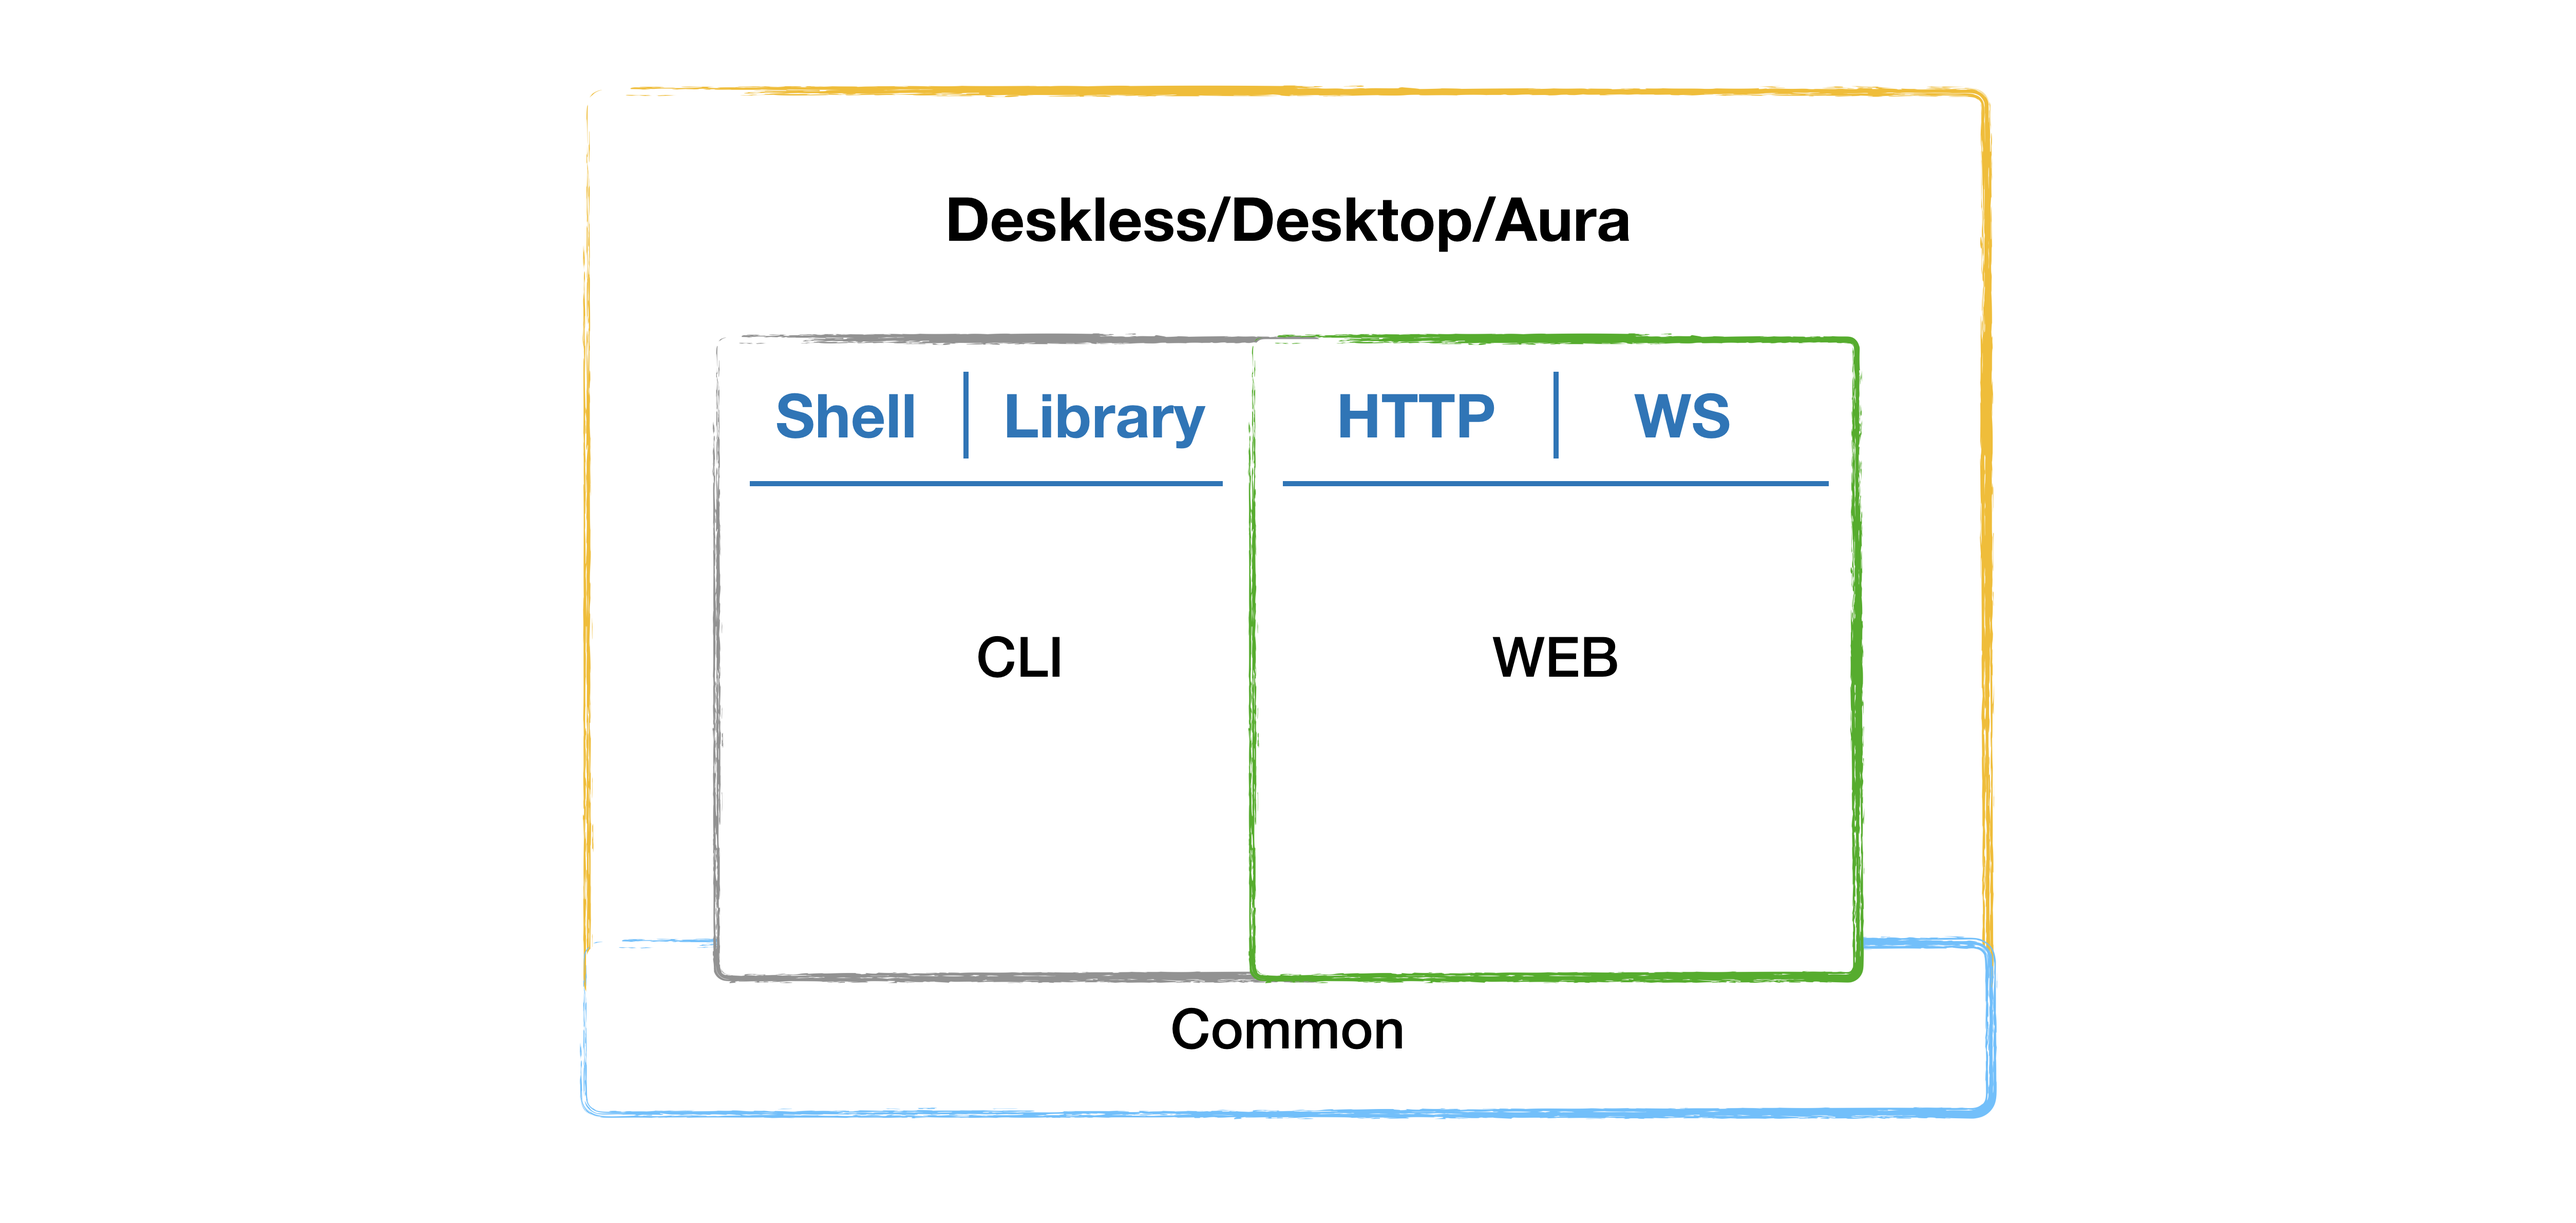
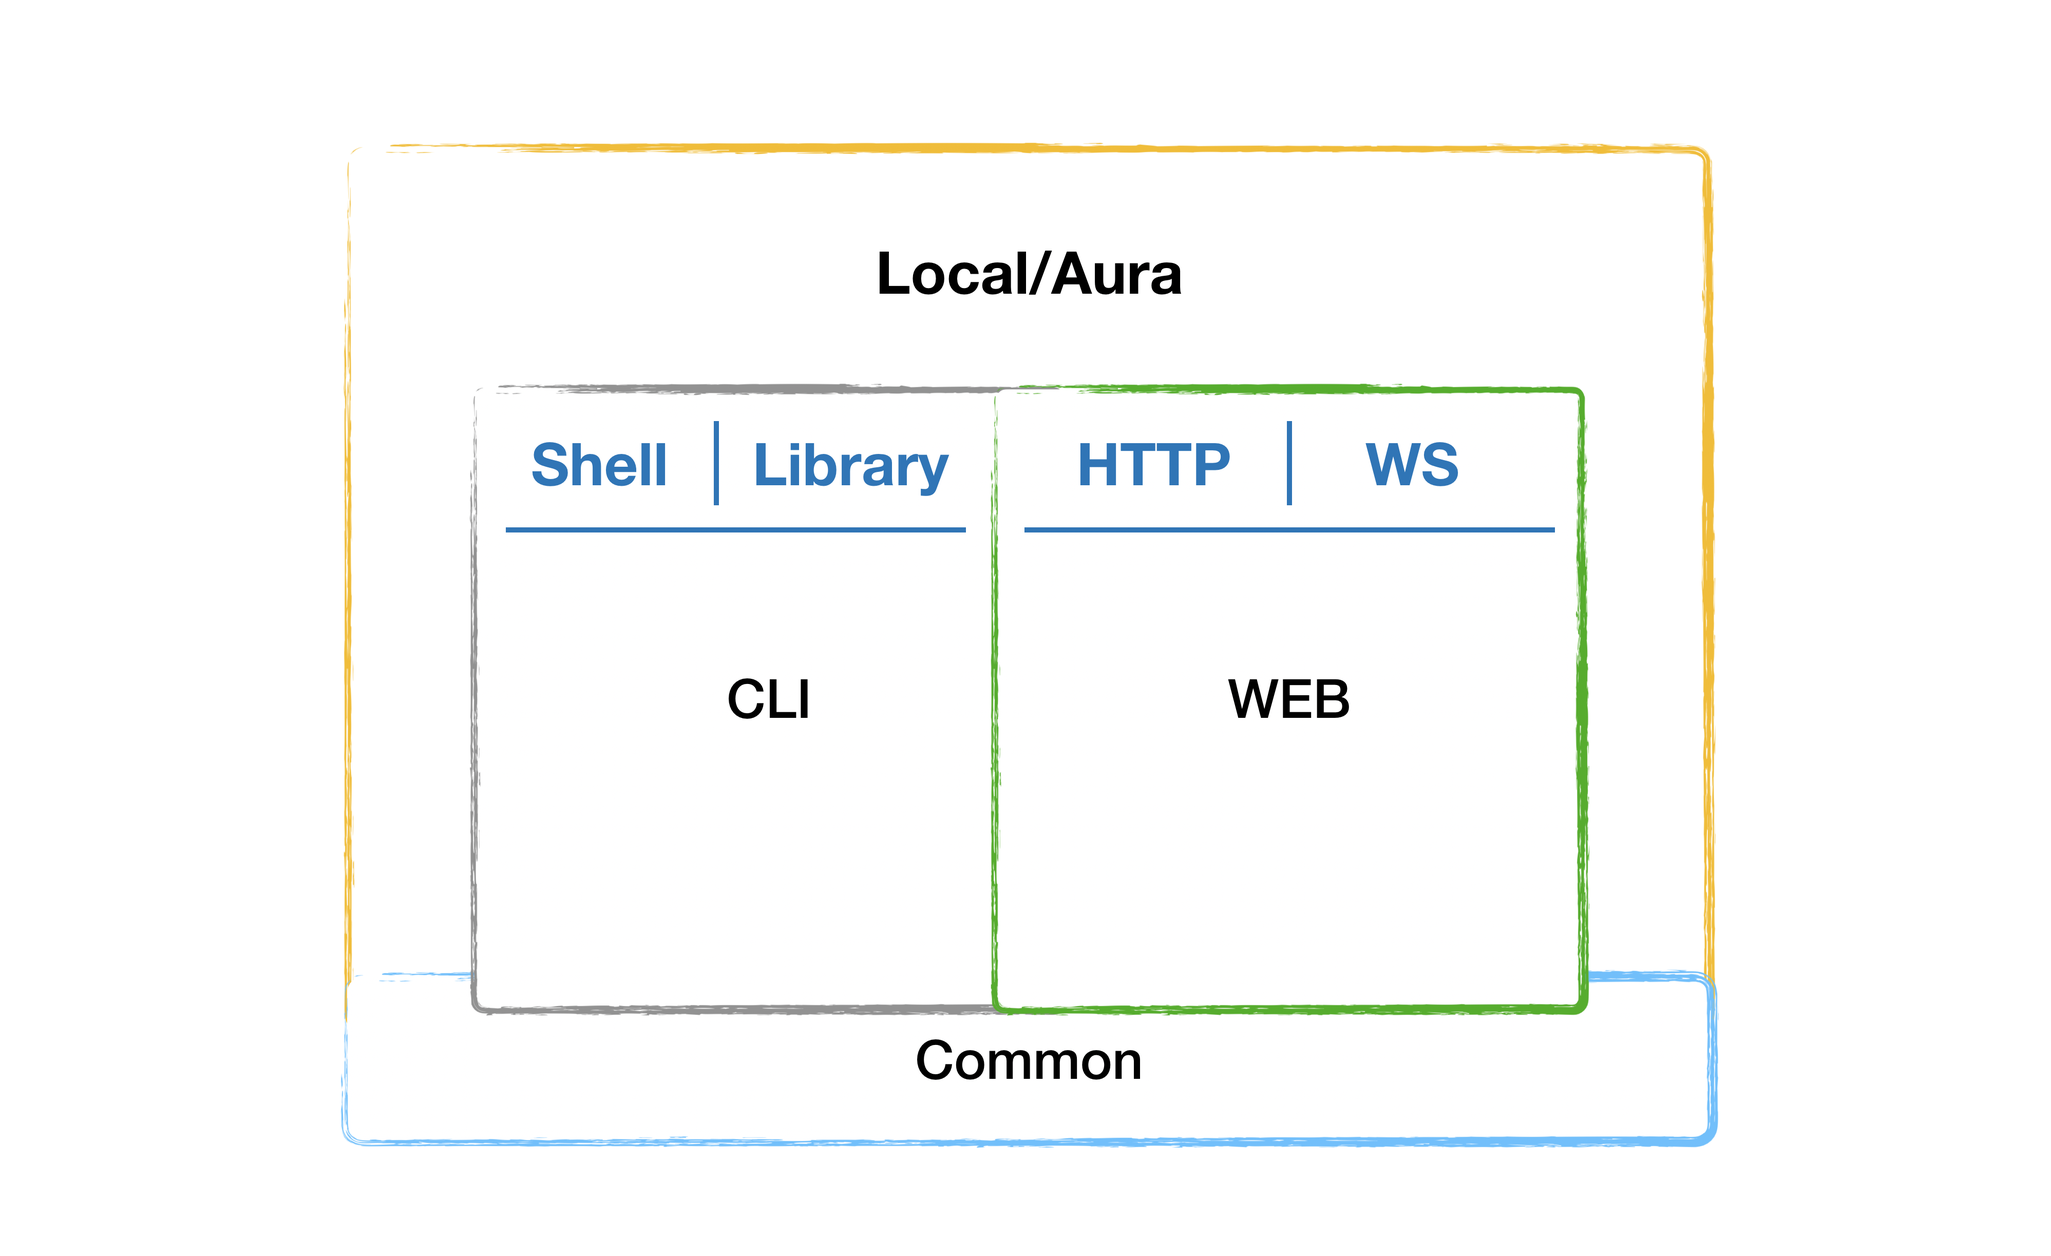
Agent -> Account

diff --git a/documentation/RFCs/relate-api/relate-api.rfc.md b/documentation/RFCs/relate-api/relate-api.rfc.md
@@ -19,7 +19,7 @@ For now we will use the project name `@daedalus` until we have found a real name
 ## GraphQL
 ```GraphQL
 query GetDBNames {
-    useAgent(nameOrId: "local") {
+    useAccount(nameOrId: "local") {
         useDBMS(nameOrId: "neo4j") {
             id,
             dbs {
@@ -32,7 +32,7 @@ query GetDBNames {
 
 ## CLI
 ```sh
-$ daedalus agent:use "local" # set context to "local"
+$ daedalus account:use "local" # set context to "local"
 $ daedalus dbms:use "neo4j" # set current DBMS to "neo4j"
 $ daedalus db:list | awk '{print $2}' # list db names (eg. col 2)
 ```
@@ -41,13 +41,13 @@ $ daedalus db:list | awk '{print $2}' # list db names (eg. col 2)
 ```TypeScript
 import Daedalus, {Database} from '@daedalus/core';
 
-const dbs: Promise<Database[]> = Daedalus.useAgent('local')
-    .then((agent) => agent.useDBMS('neo4j'))
+const dbs: Promise<Database[]> = Daedalus.useAccount('local')
+    .then((account) => account.useDBMS('neo4j'))
     .then((dbms) => dbms.listDBs())
 ```
 
 # Motivation
-As we are adding more and more ways for consumers (web developers, application developers, system developers) to interact with our core product (local, on-prem, cloud), 
+As we are adding more and more ways for consumers (web developers, application developers, system developers) to interact with our core product (local, on-premise, cloud), 
 as well as increasing the feature set of our products (clustering, multi-db, transactions), 
 we need to ensure that they have access to a homogeneous, extensible, and intuitive API that empowers them to do great work.
 
@@ -59,26 +59,26 @@ In addition, we will leverage the power of established frameworks and patterns i
 
 # Detailed design
 The core deliverable is a JavaScript library (the "toolkit") that allows you to programmatically interact with the Neo4j platform.
-In this context, "platform" is defined as the collection of Agents (Deskless, Desktop, Aura), Services (IDMS, User data, Graph Apps), and Tools (drivers, graphql server, plugins).
+In this context, "platform" is defined as the collection of Accounts (Local, Aura), Services (IDMS, User data, Graph Apps), and Tools (drivers, graphql server, plugins).
 The basis of the toolkit is a collection of modules, providers, microservices, et al. that can readily be composed into an application using a Dependency Injection framework.
 This enables us to ship modular, extensible, and scalable code that is easy for consumers to discover and adopt.
 
 ## A note on nomenclature
-- `Agent` here refers to a top level trusted authority containing certificates, keys, credentials, et. al. A container of all things, and the root of our chain of trust:
-    - `DBMS` here refers to a Neo4j DBMS instance, whose access is managed by it's `Agent`
+- `Account` here refers to a top level trusted authority containing certificates, keys, credentials, et. al. A container of all things, and the root of our chain of trust:
+    - `DBMS` here refers to a Neo4j DBMS instance, whose access is managed by it's `Account`
         - `DB` here refers to a Neo4j Database instance, whose access is managed by it's `DBMS`
             - `Graph` here refers to Neo4j Graph instance, whose access is managed by it's `DB`
 - `Services` here refers to local and remote resources that we choose to officially integrate with
 - `Tools` here refers to other known programmatic/CLI/HTTP utilities that we choose to officially integrate with
 
 ## Goals
-- The toolkit should enable users to safely create and store Agent configurations, use a given Agent to create, interact, and remove DBMS instances, and for each DBMS create, interact, and drop Databases.
+- The toolkit should enable users to safely create and store Account configurations, use a given Account to create, interact, and remove DBMS instances, and for each DBMS create, interact, and drop Databases.
 - The toolkit should be environment agnostic, aka function just as well on the CLI, over the wire (HTTP), and in native environments (Electron). Should certain features not be available, this should be clear but not have an impact on functionality/stability
 - The toolkit should be easy to extend using the established dependency injection patterns of [NestJS](https://nestjs.com/). Main advantage being the ability to swap out components as features come and go.
 - The toolkit should leverage existing technology and documentation so that consumers are able to use preexisting knowledge and ramp up quickly. This includes (but is not limited to): DI using `@nestjs`, CLI using `@oclif`, and HTTP using `GraphQL`.
 
 For more detailed description, please see:
-- [Agents, Services, and Tools](#TBA)
+- [Accounts, Services, and Tools](#TBA)
 - [Toolkit Docs](#TBA)
     - [Usage](#TBA)
     - [API Reference](#TBA)
@@ -93,16 +93,16 @@ For more detailed description, please see:
     - [API Reference](#TBA)
 
 Some specific details we'd like to highlight:
-- Inside `@daedalus` all entity (Agent, DBMS, DB, Graph) instances have a unique ID, as well as a unique name (by namespace), this to facilitate both user and programmatic access.
+- Inside `@daedalus` all entity (Account, DBMS, DB, Graph) instances have a unique ID, as well as a unique name (by namespace), this to facilitate both user and programmatic access.
 - The API should be semantically the same regardless of if you are using the Programmatic, GraphQL, or CLI APIs
-- The concept of Agents make it easy to protect sensitive information such credentials, and provide a clear chain of trust.
+- The concept of Accounts make it easy to protect sensitive information such credentials, and provide a clear chain of trust.
 - Dependency Injection and typed language reduce the possibility of a host of bugs and exceptions, as well as providing an established pragma for extending applications.
 
 
 # Drawbacks
 - There are some learning curves involved in the above which will have an impact on the teams pace of delivery initially
-- Dependency Injection is opinionated and not to everyones liking, there is a possibility for pushback
-- Maintaining support for 4 different environments and in addition keeping them homogenous requires solid communication. Information silos are the enemy here
+- Dependency Injection is opinionated and not to everyones liking, there is a possibility for push back
+- Maintaining support for 4 different environments and in addition keeping them homogeneous requires solid communication. Information silos are the enemy here
 - 
 
 # Alternatives
@@ -116,8 +116,8 @@ We could scour the community for tools and projects that address these areas. Th
 - Banging the drums in the community
 - Solid API docs (following established structures such as `man` pages and JSDoc)
 - GraphQL schema
-- Explicit and relevant error messages with helpful suggesions
-- Creation of code "recipies" or template projects to reduce boilerplating
+- Explicit and relevant error messages with helpful suggestions
+- Creation of code "recipes" or template projects to reduce boilerplating
 
 # How we teach this
 
